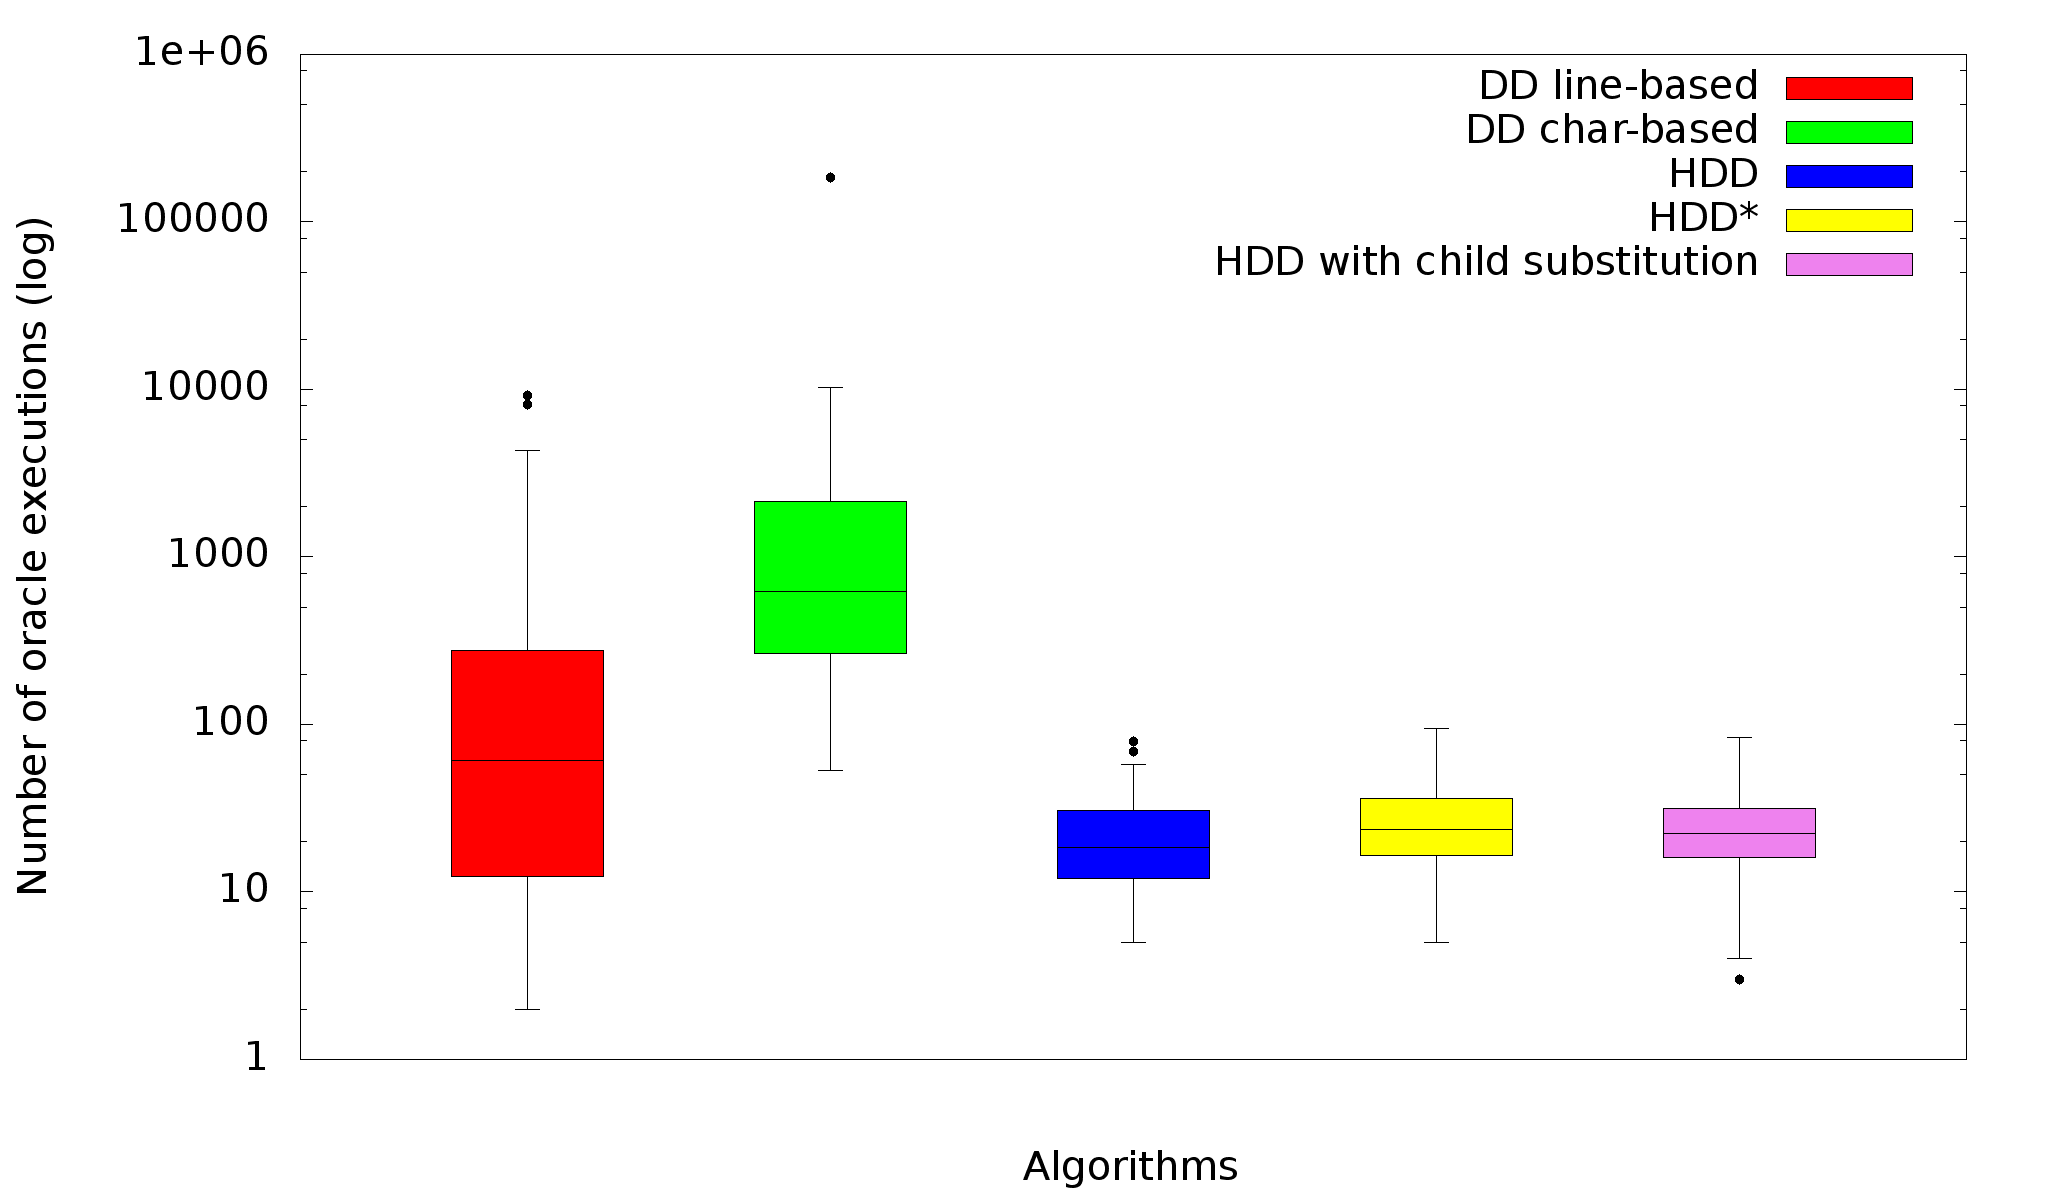
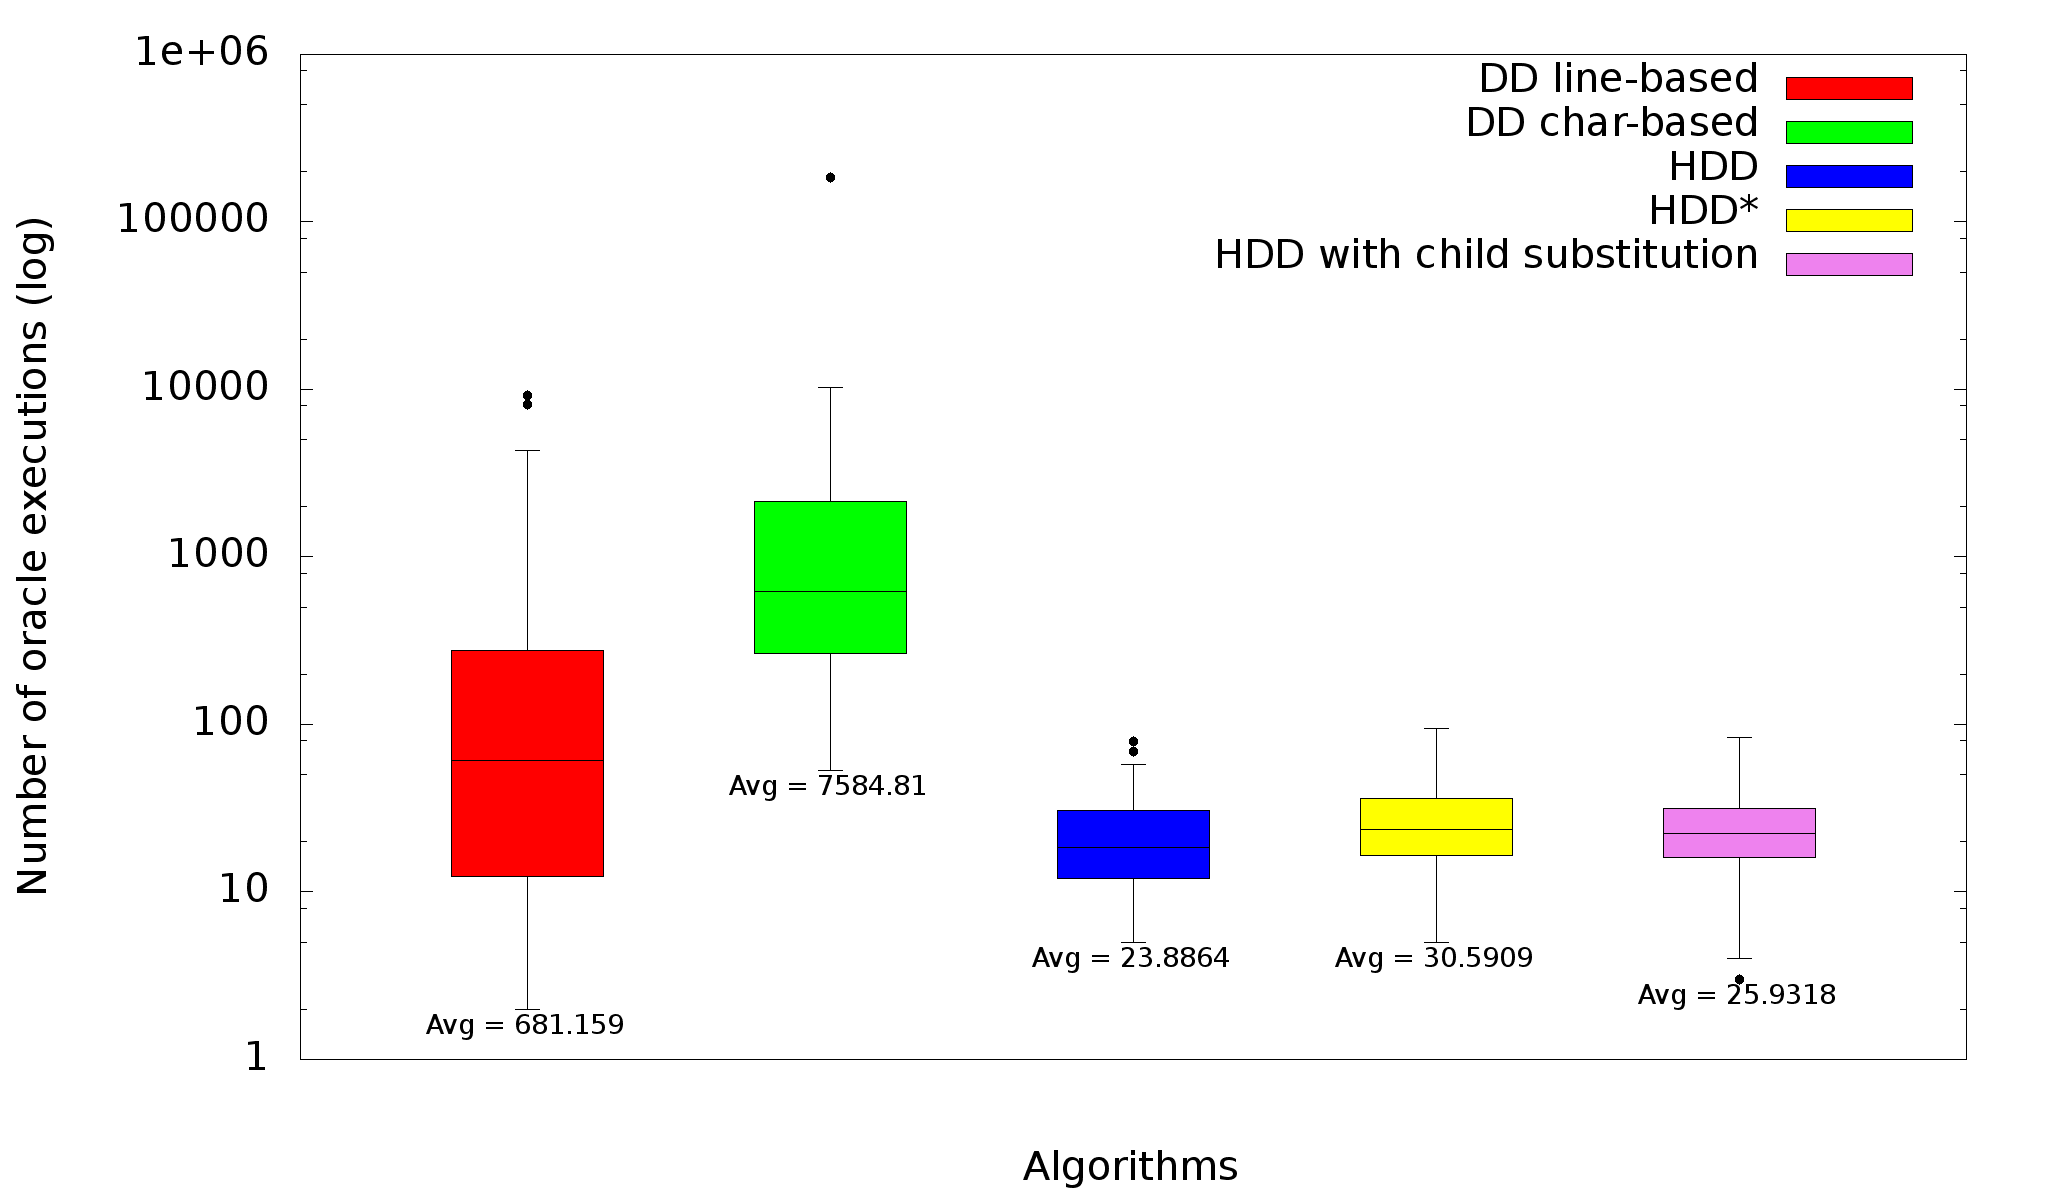
Boxplots with average as a label.

diff --git a/program-generation/tree-reducer/createStats.js b/program-generation/tree-reducer/createStats.js
@@ -146,16 +146,22 @@
         for(let i = 0; i < algorithms.length; i++) {
             let prefix = algorithms[i] + "_" + property;
             plotcommand += "print sprintf('" + prefix + "')\n";
-            plotcommand +="stats '" + codeDir + "/stats/stats-" + property + ".csv' using " + (i+2) + "\n";
+            plotcommand += "stats '" + codeDir + "/stats/stats-" + property + ".csv' using " + (i+2) +
+                "prefix 'A" + (i+1) + "'\n";
+            plotcommand += "set label " + (i+1) + " gprintf('Avg = %g', A" + (i+1) + "_mean)at "
+                + (i+1) + ", A" + (i+1) + "_min*0.75 center font 'Verdana,20'\n"
         }
 
-        plotcommand +=  "set logscale y\n" +
+        plotcommand += "show label\n" +
+            "set logscale y\n" +
             "plot ";
         for(let i = 0; i < algorithms.length; i++) {
 
             plotcommand += "'" + codeDir + "/stats/stats-" + property + ".csv' using "
                 + "(" + (i+1) + "):"+ (i+2) +" title columnheader linecolor rgb '" + colors[i] + "', ";
         }
+
+        //console.log(plotcommand);
 
         return child_process.spawnSync("gnuplot", [], {
             input: plotcommand,
